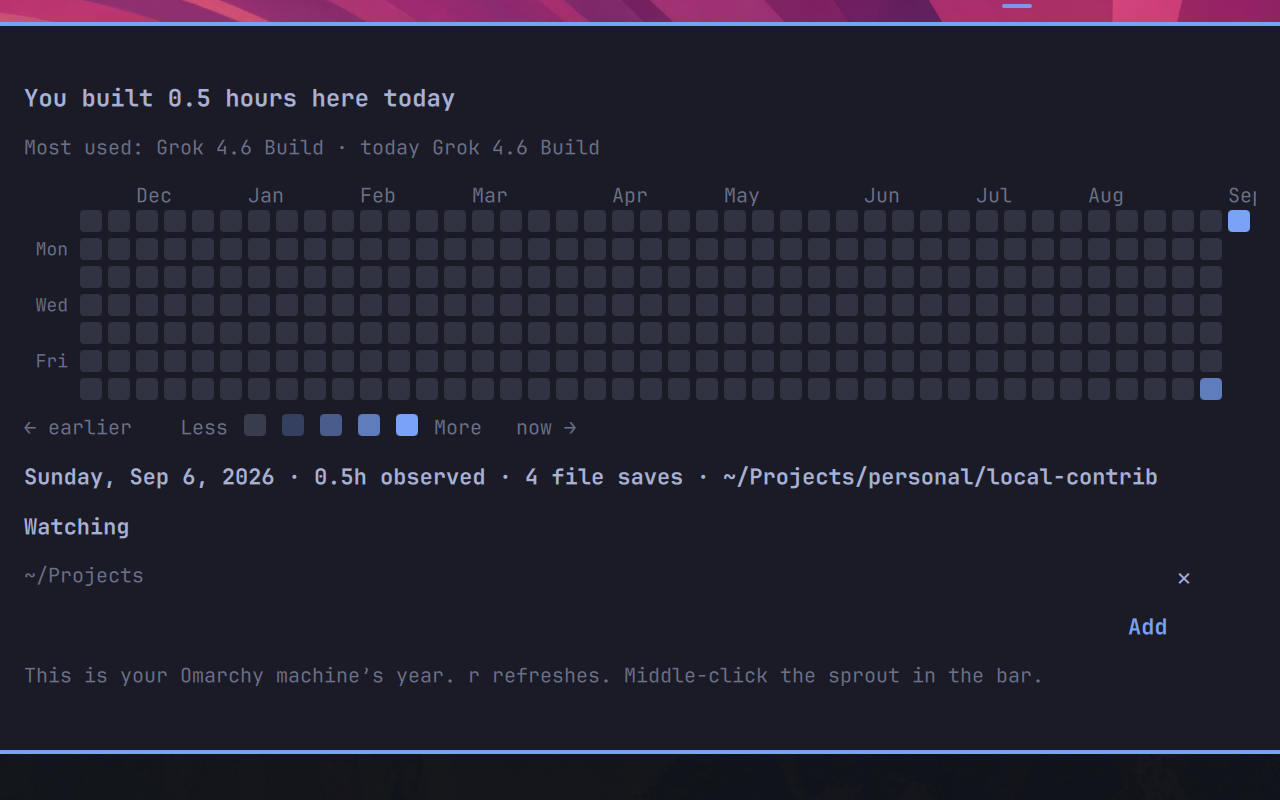
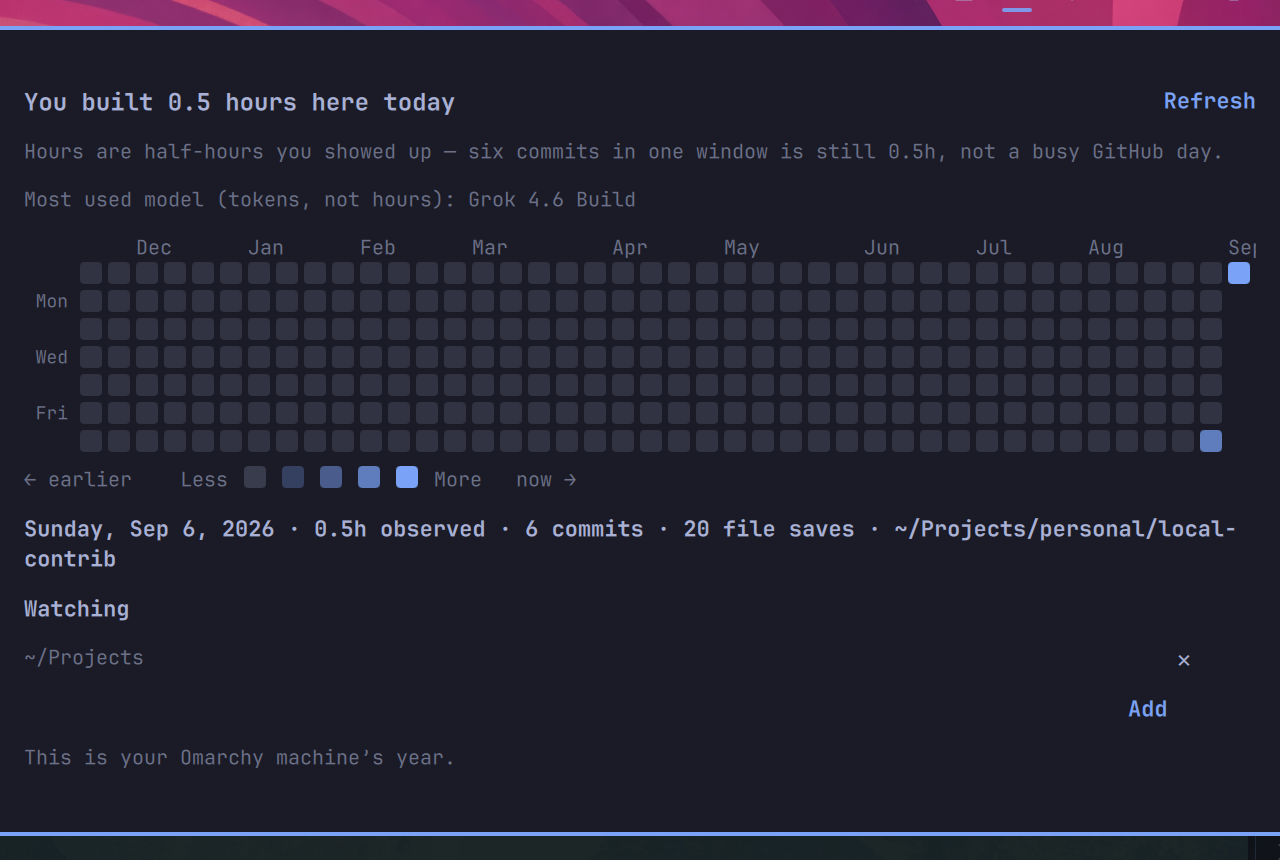
Say hours are half-hours you showed up, and recapture preview
Panel caption and README: six commits in one window is still 0.5h.
preview.png shows Refresh and that line.

diff --git a/Panel.qml b/Panel.qml
@@ -293,6 +293,15 @@ Panel {
           }
 
           Text {
+            width: parent.width - parent.leftPadding - parent.rightPadding
+            text: "Hours are half-hours you showed up — six commits in one window is still 0.5h, not a busy GitHub day."
+            color: root.dim
+            font.family: root.contentFontFamily
+            font.pixelSize: Style.font.caption
+            wrapMode: Text.WordWrap
+          }
+
+          Text {
             visible: !!(root.snapshot.topModel && root.snapshot.topModel.label)
             width: parent.width - parent.leftPadding - parent.rightPadding
             text: {

diff --git a/README.md b/README.md
@@ -2,7 +2,7 @@
 
 A private year of **coding on this Omarchy machine**.
 
-Not GitHub.com. Not the Agents token meter. A square is a half-hour when something actually changed in a folder you chose — a file save, or a git commit **you** authored (including ones you already pushed). Empty tiles are the bed, not a score.
+Not GitHub.com. Not the Agents token meter. A square is a **half-hour you showed up** in a folder you chose — a file save, or a git commit **you** authored (including ones you already pushed). Six commits in the same window still light **one** square (0.5h). Empty tiles are the bed, not a score.
 
 ## Install
 
@@ -48,6 +48,8 @@ Default watch: `~/Projects`. Add/remove folders in the panel. `$HOME` is rejecte
 |---|---|
 | File save | Source-ish files under a watched folder (skip `node_modules`, `.git`, venvs, …). Untracked files in a git repo count if git would not ignore them. |
 | Git commit | Author email matches yours, local time, subject not `vault backup:`. **Pushed commits still count.** |
+
+**Hours ≠ commit count.** The headline counts lit half-hours, not how many times you saved.
 
 Agent token totals are **not** squares. The panel may show a one-line “most used model” from Omarchy’s existing agent usage files — that is tokens, not hours.
 
